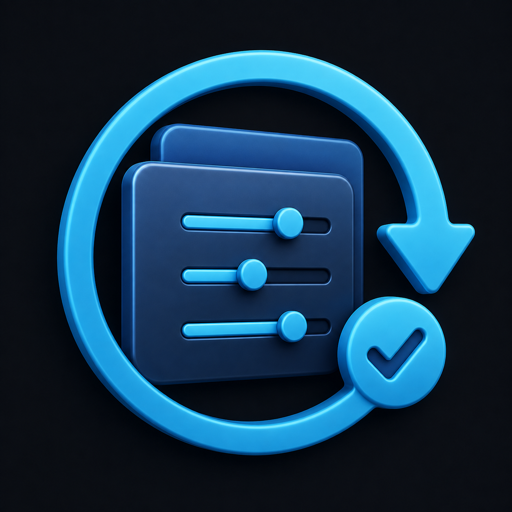
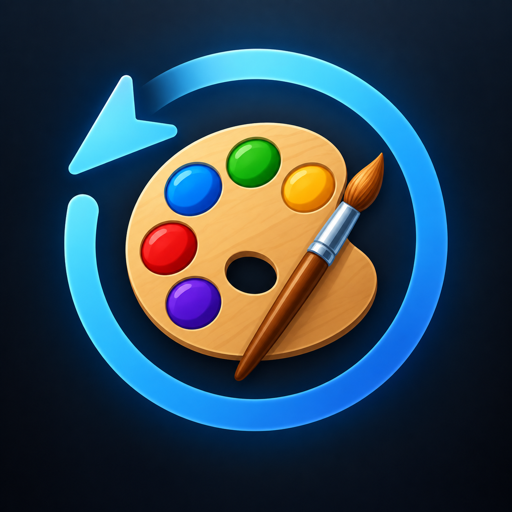
Polish backup menu and help

diff --git a/resources/lib/runtime.py b/resources/lib/runtime.py
@@ -1223,7 +1223,24 @@ class App:
     def status(self):
         state = self.state()
         entries = [value.get('last_backup', 'None') for value in state['skins'].values()]
-        text = 'Last successful backup: {}\nDevice ID: {}\nPending restore: {}\n\n'.format(
+        text = ('MENU OPTIONS\n\n'
+                '[B]Backup current skin[/B]\n'
+                'Creates and verifies a backup of the active skin settings and supported helper files. '
+                'The first backup is protected automatically.\n\n'
+                '[B]Create protected backup[/B]\n'
+                'Creates a backup that automatic retention will never remove. Use this before a skin update '
+                'or a major customization.\n\n'
+                '[B]Restore a saved backup[/B]\n'
+                'Selects a completed backup saved for this Kodi device and profile, verifies it, and restores '
+                'its skin settings and supported helper files.\n\n'
+                '[B]Import backup ZIP[/B]\n'
+                'Selects and verifies a backup ZIP, including one copied from another Kodi device, then starts '
+                'the same protected restore process.\n\n'
+                '[B]Run system check[/B]\n'
+                'Checks the backup folder, Kodi file access, archive integrity, and recovery using temporary '
+                'test data. It only reads the current skin and does not restore or change its settings.\n\n'
+                'STATUS\n\n')
+        text += 'Last successful backup: {}\nDevice ID: {}\nPending restore: {}\n\n'.format(
             max(entries) if entries else 'None', state['device_id'], os.path.exists(self.pending_path))
         blocked = [value['blocked'] for value in state['skins'].values() if value.get('blocked')]
         if blocked:
@@ -1267,23 +1284,22 @@ def run_ui(args=None):
         incomplete = False if pending_error and os.path.exists(app.pending_path) else app.incomplete()
         if pending_error and os.path.exists(app.pending_path):
             actions = [('abandon', 'Clear unreadable restore status (keep current files)'),
-                       ('settings', 'Backup settings'), ('status', 'Help and backup status')]
+                       ('settings', 'Settings'), ('status', 'Help and Status')]
         elif pending and pending.get('phase') in ('rebuild', 'rollback_rebuild') and not incomplete:
             actions = [('finish', 'Complete undo and verify previous settings'
                         if pending.get('phase') == 'rollback_rebuild' else 'Complete pending restore')]
             if pending.get('phase') == 'rebuild':
                 actions.append(('cancel', 'Undo pending restore (restore previous files)'))
             actions.extend([('abandon', 'Keep current files and clear restore status'),
-                            ('settings', 'Backup settings'), ('status', 'Help and backup status')])
+                            ('settings', 'Settings'), ('status', 'Help and Status')])
         elif (pending and pending.get('phase') == 'restoring') or incomplete:
             actions = [('recover', 'Repair interrupted file operation'),
                        ('abandon', 'Keep current files and clear restore status'),
-                       ('settings', 'Backup settings'), ('status', 'Help and backup status')]
+                       ('settings', 'Settings'), ('status', 'Help and Status')]
         else:
-            actions = [('backup', 'Back up current skin'), ('protect', 'Create protected backup'),
+            actions = [('backup', 'Backup current skin'), ('protect', 'Create protected backup'),
                        ('restore', 'Restore a saved backup'), ('import', 'Import backup ZIP'),
-                       ('destination', 'Choose backup folder'), ('settings', 'Backup settings'),
-                       ('status', 'Help and backup status')]
+                       ('settings', 'Settings'), ('status', 'Help and Status')]
         actions.append(('selftest', 'Run system check'))
         selected = xbmcgui.Dialog().select(TITLE, [label for _action, label in actions])
         if selected < 0:
@@ -1301,10 +1317,6 @@ def run_ui(args=None):
                 with app.working('Reading and verifying the backup ZIP'):
                     blob = Store(xbmcvfs, '', os.path.join(app.data, 'staging')).read(path)
                 app.restore_blob(blob)
-        elif action == 'destination':
-            path = xbmcgui.Dialog().browseSingle(0, 'Choose backup folder', 'files', treatAsFolder=True)
-            if path:
-                app.addon.setSetting('destination', path)
         elif action == 'settings':
             app.addon.openSettings()
         elif action == 'status':

diff --git a/tests/test_runtime.py b/tests/test_runtime.py
@@ -856,9 +856,10 @@ class RuntimeTests(unittest.TestCase):
             runtime.run_ui()
 
         labels = dialog.select.call_args.args[1]
-        self.assertEqual("Back up current skin", labels[0])
-        self.assertIn("Choose backup folder", labels)
-        self.assertIn("Help and backup status", labels)
+        self.assertEqual("Backup current skin", labels[0])
+        self.assertNotIn("Choose backup folder", labels)
+        self.assertIn("Settings", labels)
+        self.assertIn("Help and Status", labels)
 
     def test_pending_menu_prioritizes_resolution_and_hides_new_operations(self):
         runtime.atomic_json(self.app.pending_path, {
@@ -877,8 +878,20 @@ class RuntimeTests(unittest.TestCase):
         labels = dialog.select.call_args.args[1]
         self.assertEqual("Complete pending restore", labels[0])
         self.assertIn("Keep current files and clear restore status", labels)
-        self.assertNotIn("Back up current skin", labels)
+        self.assertNotIn("Backup current skin", labels)
         self.assertNotIn("Restore a saved backup", labels)
+
+    def test_help_describes_each_primary_menu_action(self):
+        dialog = mock.Mock()
+        with mock.patch.object(runtime.xbmcgui, "Dialog", return_value=dialog):
+            self.app.status()
+
+        help_text = dialog.textviewer.call_args.args[1]
+        for label in ("Backup current skin", "Create protected backup",
+                      "Restore a saved backup", "Import backup ZIP", "Run system check"):
+            self.assertIn("[B]{}[/B]".format(label), help_text)
+        self.assertIn("temporary test data", help_text)
+        self.assertIn("does not restore or change", help_text)
 
     def test_malformed_pending_menu_remains_clearable(self):
         Path(self.app.pending_path).write_text("{not-json")

diff --git a/README.md b/README.md
@@ -4,9 +4,9 @@ A small Kodi program and background service for versioned skin-setting backups. 
 
 ## Install and use
 
-1. In Kodi, enable installation from unknown sources if needed, then **Add-ons → Install from zip file**, selecting `service.skinsettings.backup-1.0.15.zip`.
-2. Open **Program add-ons → Skin Settings Backup → Backup settings → Backup folder**. Select a writable folder in Kodi’s folder picker, preferably on a Mac or NAS. Network sources added in Kodi’s File Manager are available in the picker. The add-on menu’s **Choose backup folder** action also opens a folder picker. Configure share authentication through Kodi's network sources instead of embedding passwords in the path.
-3. Select **Back up current skin** to create and verify your initial protected snapshot. Select **Create protected backup** before a skin update or after a major customization.
+1. In Kodi, enable installation from unknown sources if needed, then **Add-ons → Install from zip file**, selecting `service.skinsettings.backup-1.0.16.zip`.
+2. Open **Program add-ons → Skin Settings Backup → Settings → Backup folder**. Select a writable folder in Kodi’s folder picker, preferably on a Mac or NAS. Network sources added in Kodi’s File Manager are available in the picker. Configure share authentication through Kodi's network sources instead of embedding passwords in the path.
+3. Select **Backup current skin** to create and verify your initial protected snapshot. Select **Create protected backup** before a skin update or after a major customization.
 4. In Settings, select an interval (1, 6, 12, 24 or 168 hours) and how many automatic backups to keep (default 14). Scheduling is enabled once a destination is set. The first snapshot and explicitly protected snapshots never expire.
 
 The service waits 45 seconds after startup and works only while Kodi is idle and no media is playing. It catches up after a missed interval when Kodi runs again. It cannot wake a suspended Apple TV or run while Kodi is closed. Unchanged settings do not create additional automatic archives. Failed operations retry after five minutes; repeated identical failures notify at most once a day. Manual backups may run while Kodi is playing; restores require stopped playback.

diff --git a/WORK_LOG.md b/WORK_LOG.md
@@ -112,3 +112,9 @@ Modal progress cancellation is honored while preserving completed backups and pe
 All 82 automated tests pass, including Skin Variables build-hash changes, simulated crashes during rollback snapshot creation, already-completed automatic rollback recovery, malformed pending-state escape, symlink rejection, cancellation, delayed skin confirmation, skin reversion, and clean/pending menu states. Python compilation and Git whitespace checks pass.
 
 Native validation used the exact 1.0.15 ZIP on Kodi 21.1 with Python 3.11.7. The system check passed 11 of 11 checks; manual backup saved 276 user skin settings and eight managed files; restore staged through Estuary with visible progress, retained a pending transaction across rejected skin confirmations, rebuilt AF3 with visible progress, verified all restored settings and seven helper files, and cleared the pending marker. The test discovered and fixed four Skin Variables build fingerprints that must change during regeneration and are now excluded from user-setting backup and verification.
+
+## Version 1.0.16 — streamlined menu, expanded help and new icon
+
+The main menu now uses **Backup current skin**, **Settings**, and **Help and Status**. The duplicate **Choose backup folder** command and its unused runtime branch were removed; Kodi's native folder picker remains available through **Settings → Backup folder**. The Help and Status screen explains each primary backup, restore, import, and system-check action. The optional device-name setting now explains that its value identifies the source device in backup details without changing storage or Kodi identity.
+
+The add-on thumbnail now uses a high-contrast painter's palette, brush, and circular backup arrow designed to remain recognizable in Kodi's compact add-on views. All 83 automated tests pass, together with Python compilation and Git whitespace checks.
